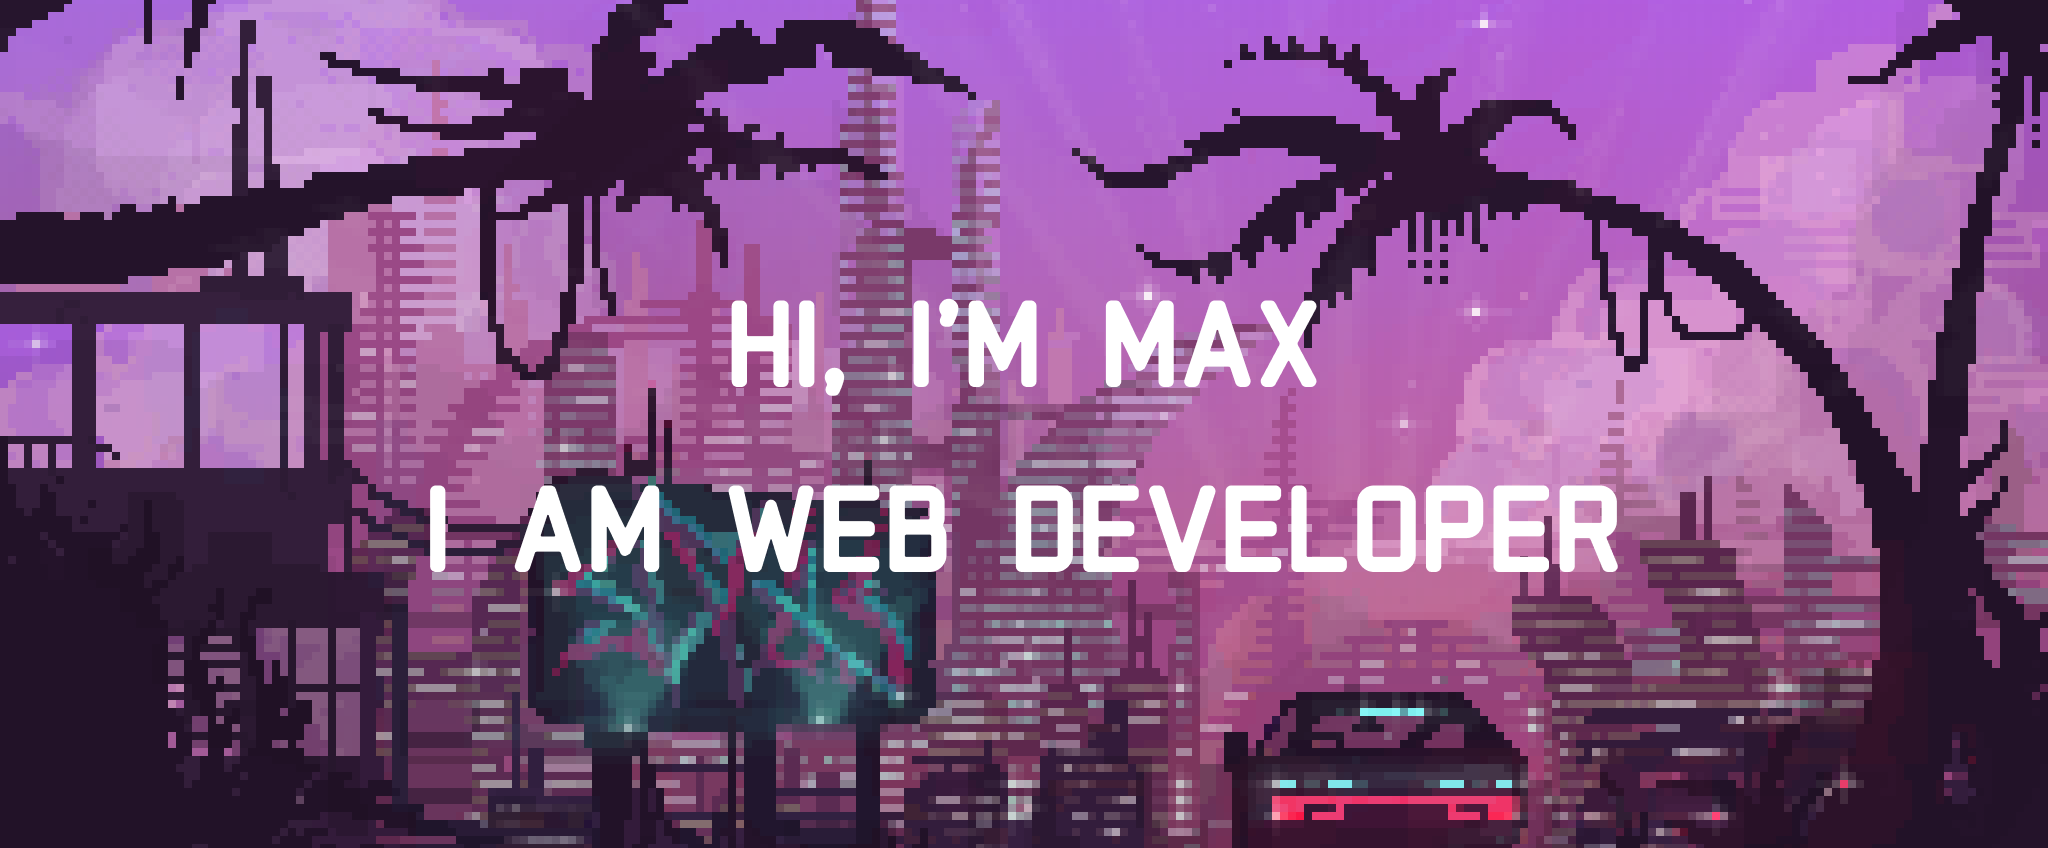
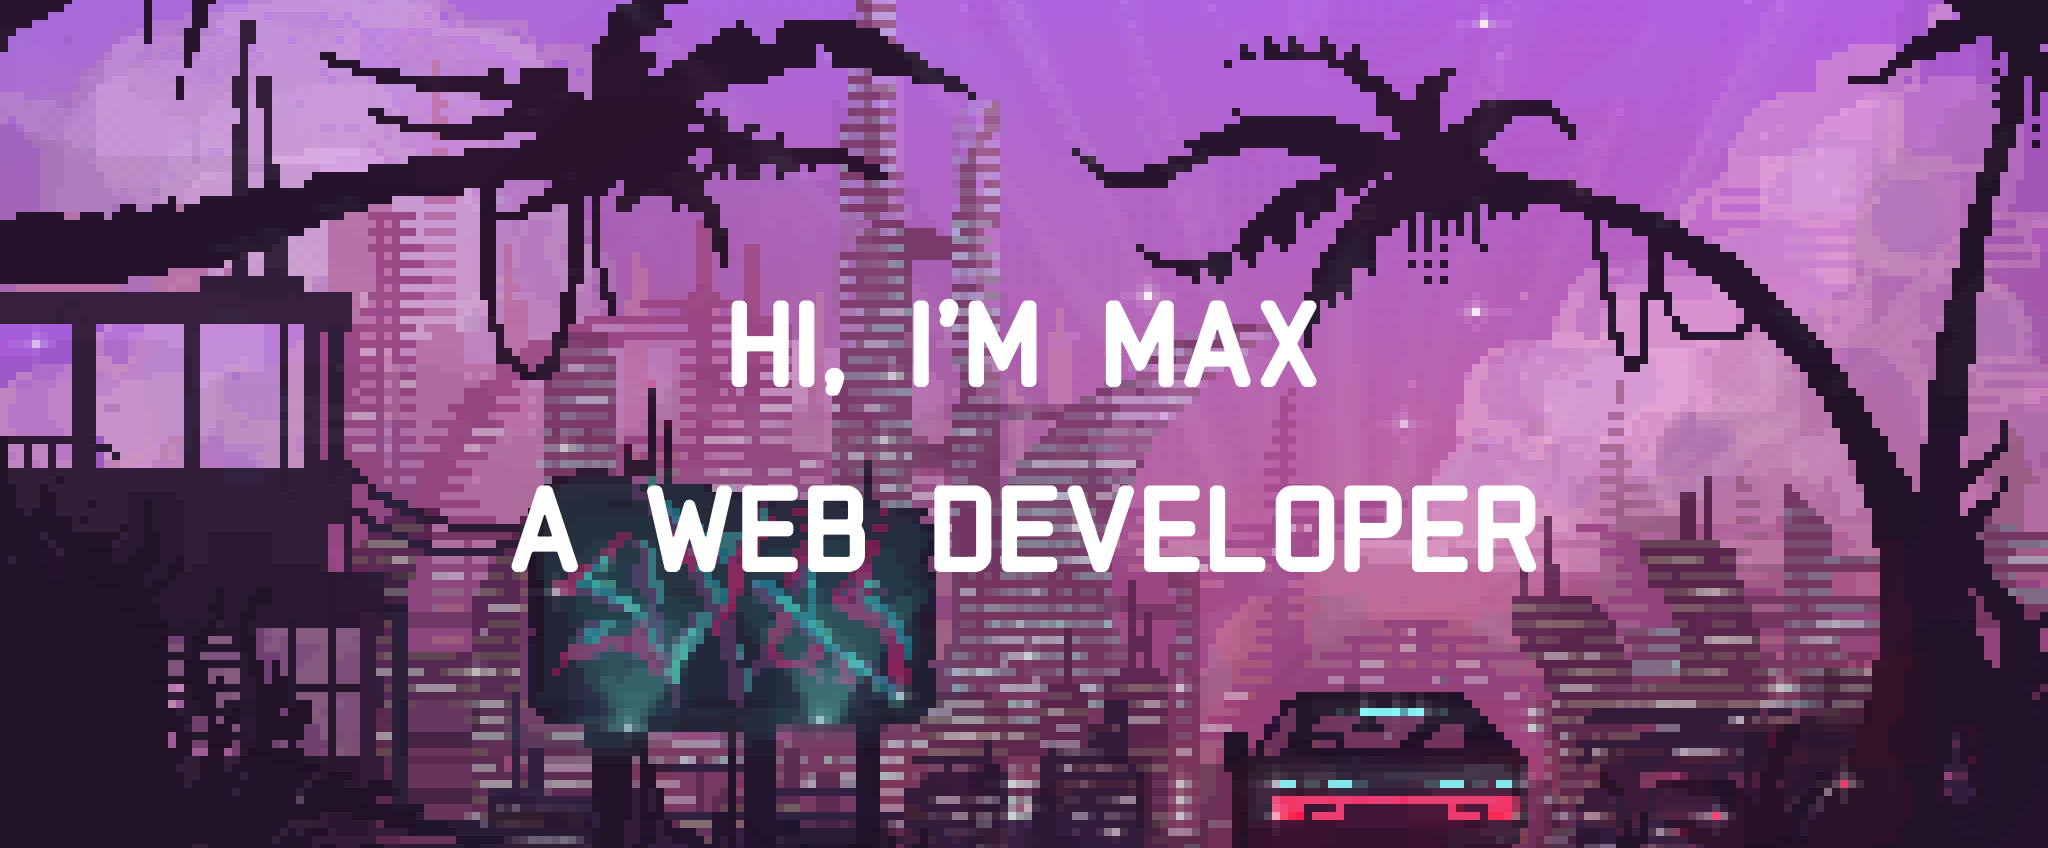
update

Changed region(s): [[0.25, 0.5519, 0.8125, 0.6745], [0.1875, 0.5825, 0.2188, 0.6745]]

diff --git a/README.md b/README.md
@@ -1,31 +1,51 @@
 ![hi](./hi%20github.png)
 
-## 👋 Привет, меня зовут [Максим](https://t.me/klimetzc), я начинающий Фронтенд-разработчик
+<!-- ##  Привет, меня зовут [Максим](https://t.me/klimetzc), я начинающий Фронтенд-разработчик -->
 
-- 📖 Активно изучаю новые технологии. В планах на ближайшее будущее - Next.js, NestJS, React Native.
+👋 Hi, i'm Max. I am a web developer. I mostly write in JavaScript/TypeScript, but in the future i want to try Go. I am actively studying new technologies. In the plans for the near future - Next.js, NestJS, React Native, Go. Currently in active job search. Open at any new offers. I am happy to participate in team project
+
+<!-- - 📖 Активно изучаю новые технологии. В планах на ближайшее будущее - Next.js, NestJS, React Native.
 - 💼 В текущий момент в активном поиске работы.
-- 🤝 Открыт к любым новым предложениям. С радостью поучавствую в командных проектах.
+- 🤝 Открыт к любым новым предложениям. С радостью поучавствую в командных проектах. -->
 
 <!-- <img src="images/file_type_html_icon_130541.svg" width="50px"> -->
 
-### Technology Stack: 
+### <p style="text-align: center">👨💻Technology Stack:</p>
 
-![HTML5](https://img.shields.io/badge/html5-%23E34F26.svg?style=for-the-badge&logo=html5&logoColor=white) ![CSS3](https://img.shields.io/badge/css3-%231572B6.svg?style=for-the-badge&logo=css3&logoColor=white) ![Styled-components](https://img.shields.io/badge/styled--components-DB7093?style=for-the-badge&logo=styled-components&logoColor=white) ![sass](https://img.shields.io/badge/Sass-CC6699?style=for-the-badge&logo=sass&logoColor=white)  
-![JavaScript](https://img.shields.io/badge/javascript-%23323330.svg?style=for-the-badge&logo=javascript&logoColor=%23F7DF1E) ![TypeScript](https://img.shields.io/badge/TypeScript-007ACC?style=for-the-badge&logo=typescript&logoColor=white) ![React](https://img.shields.io/badge/React-20232A?style=for-the-badge&logo=react&logoColor=61DAFB) ![Redux](https://img.shields.io/badge/Redux-593D88?style=for-the-badge&logo=redux&logoColor=white)  
-![Express](https://img.shields.io/badge/Express.js-000000?style=for-the-badge&logo=express&logoColor=white)
-![MongoDB](https://img.shields.io/badge/MongoDB-4EA94B?style=for-the-badge&logo=mongodb&logoColor=white)
+<div style="display: flex; flex-direction: column; align-items: center; margin: 0 auto">
+<p style="font-weight: bold">Frontend: </p>
+
+![HTML5](https://img.shields.io/badge/html5-%23E34F26.svg?style=for-the-badge&logo=html5&logoColor=white)![CSS3](https://img.shields.io/badge/css3-%231572B6.svg?style=for-the-badge&logo=css3&logoColor=white)![sass](https://img.shields.io/badge/Sass-CC6699?style=for-the-badge&logo=sass&logoColor=white)![Styled-components](https://img.shields.io/badge/styled--components-DB7093?style=for-the-badge&logo=styled-components&logoColor=white)  
+![JavaScript](https://img.shields.io/badge/javascript-%23323330.svg?style=for-the-badge&logo=javascript&logoColor=%23F7DF1E)![TypeScript](https://img.shields.io/badge/TypeScript-007ACC?style=for-the-badge&logo=typescript&logoColor=white)![React](https://img.shields.io/badge/React-20232A?style=for-the-badge&logo=react&logoColor=61DAFB)![Redux](https://img.shields.io/badge/Redux-593D88?style=for-the-badge&logo=redux&logoColor=white)
+
+<p style="font-weight: bold">Backend: </p>
+
+![NodeJS](https://img.shields.io/badge/node.js-6DA55F?style=for-the-badge&logo=node.js&logoColor=white)![Express](https://img.shields.io/badge/Express.js-000000?style=for-the-badge&logo=express&logoColor=white)![MongoDB](https://img.shields.io/badge/MongoDB-4EA94B?style=for-the-badge&logo=mongodb&logoColor=white)
+
+</div>
+
 <!-- ![PostgreSQL](https://img.shields.io/badge/PostgreSQL-316192?style=for-the-badge&logo=postgresql&logoColor=white)
 ![NestJs](https://img.shields.io/badge/nestjs-E0234E?style=for-the-badge&logo=nestjs&logoColor=white)
 ![Webpack](https://img.shields.io/badge/Webpack-8DD6F9?style=for-the-badge&logo=Webpack&logoColor=white)
-![TailwindCSS](https://img.shields.io/badge/Tailwind_CSS-38B2AC?style=for-the-badge&logo=tailwind-css&logoColor=white) 
+![TailwindCSS](https://img.shields.io/badge/Tailwind_CSS-38B2AC?style=for-the-badge&logo=tailwind-css&logoColor=white)
 -->
 
-### Мои соц.сети:
+### <p style="text-align: center">Get in touch</p>
 
-[![tg](https://img.shields.io/badge/Telegram-2CA5E0?style=for-the-badge&logo=telegram&logoColor=white)](https://t.me/klimetzc) 
-[![vk](https://img.shields.io/badge/вконтакте-%232E87FB.svg?&style=for-the-badge&logo=vk&logoColor=white)](https://vk.com/klimetzc)
-[![inst](https://img.shields.io/badge/Instagram-E4405F?style=for-the-badge&logo=instagram&logoColor=white)](https://instagram.com/klimetzc)
+<div style="display:flex;  justify-content: center">
 
-![codewars](https://www.codewars.com/users/klimetzc/badges/micro)
+[![tg](https://img.shields.io/badge/Telegram-2CA5E0?style=for-the-badge&logo=telegram&logoColor=white)](https://t.me/klimetzc)[![vk](https://img.shields.io/badge/вконтакте-%232E87FB.svg?&style=for-the-badge&logo=vk&logoColor=white)](https://vk.com/klimetzc)[![inst](https://img.shields.io/badge/Instagram-E4405F?style=for-the-badge&logo=instagram&logoColor=white)](https://instagram.com/klimetzc)
+
+</div>
+
 <!-- ![Stats](https://github-profile-summary-cards.vercel.app/api/cards/profile-details?username=klimetzc&theme=github) -->
+
+---
+
+<!-- <p style="text-align: center">Stats</p> -->
+<div style="display: flex; flex-direction: column; align-items: center">
+
 ![Metrics](/metrics.plugin.languages.svg)
+![codewars](https://www.codewars.com/users/klimetzc/badges/micro)
+
+</div>
